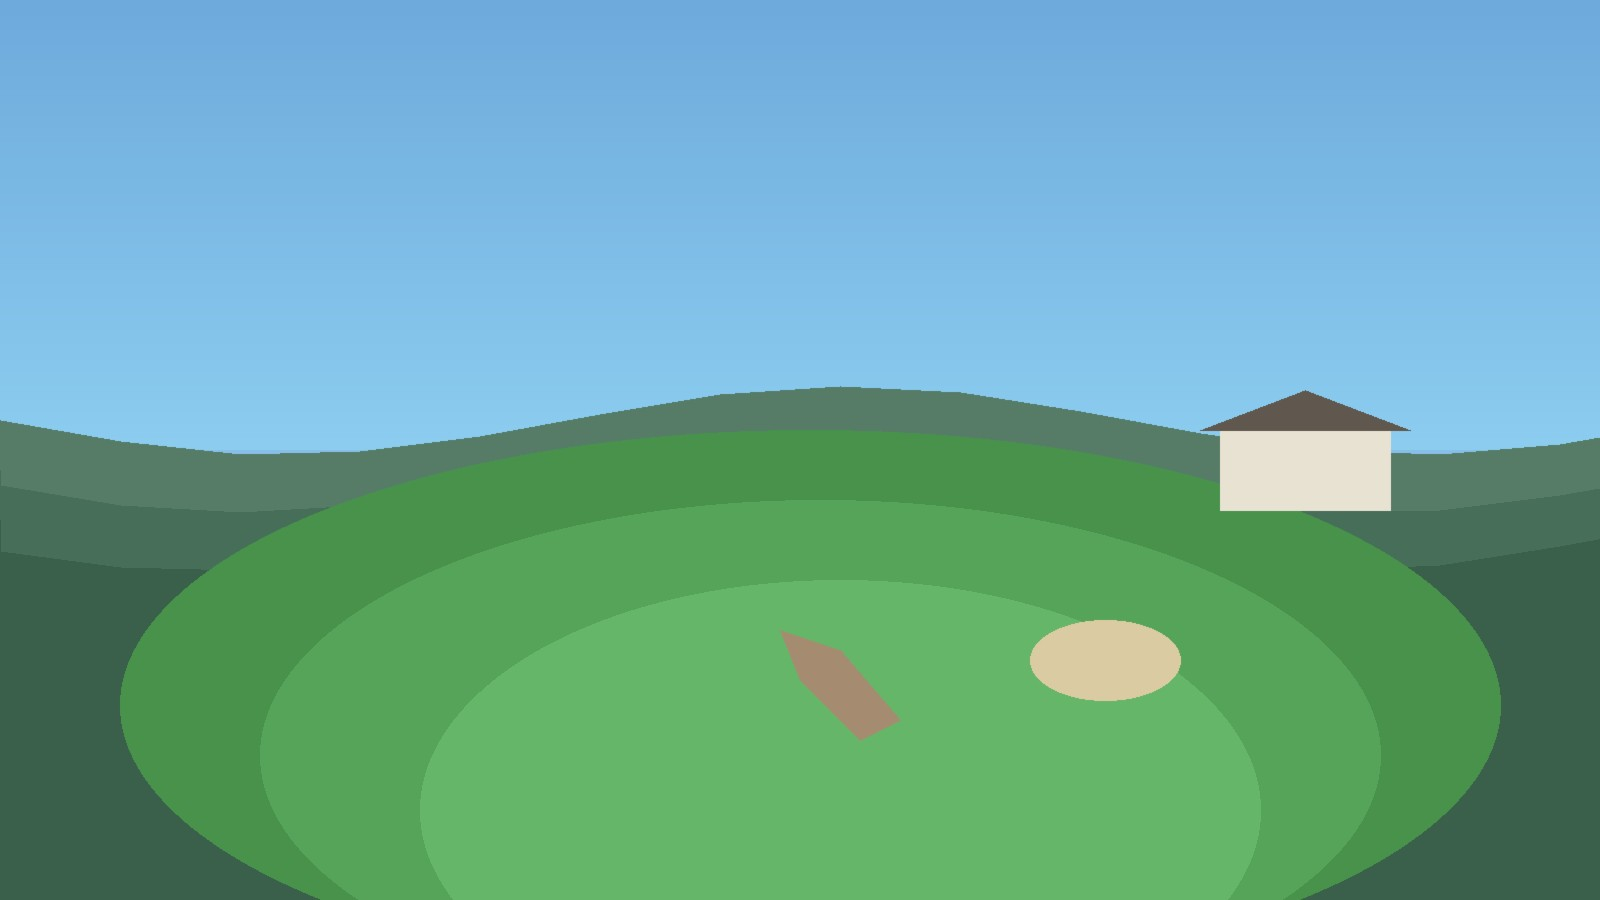
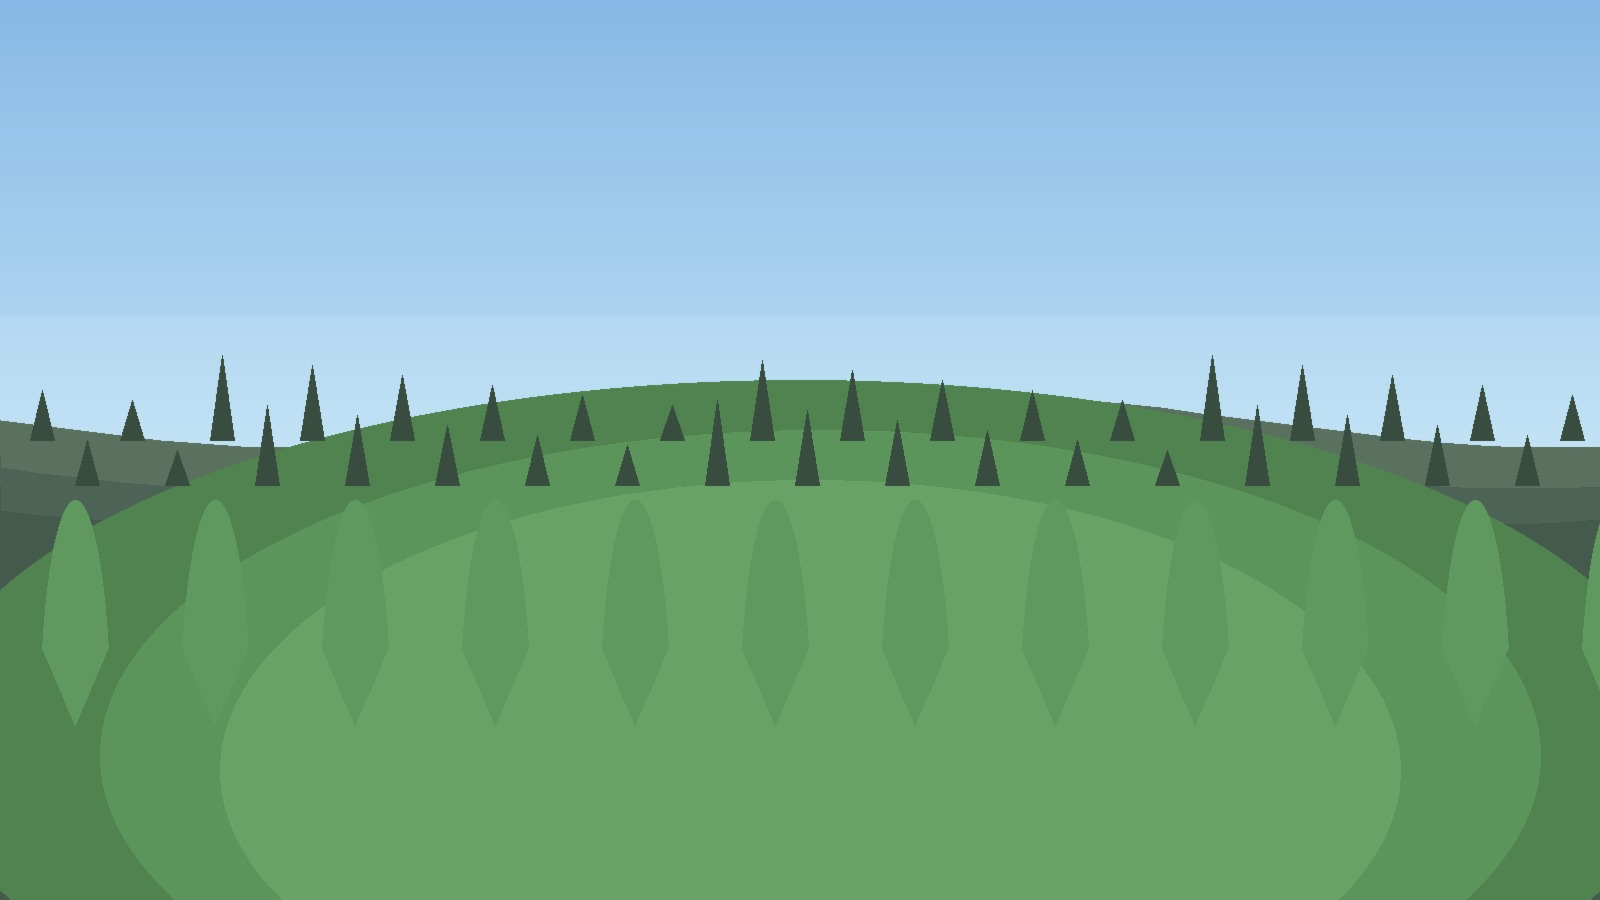
fix: replace Arima Royal course image and sync to GCS
Regenerate hero JPEG for arima_royal_golf_club; upload to ok-project-assets.
Also document Secret Manager-first Places API (New) key for fetch_images.

Made-with: Cursor

diff --git a/script/fetch_images.py b/script/fetch_images.py
@@ -5,10 +5,15 @@ import requests
 from dotenv import load_dotenv
 
 # ==========================================
-# ⚙ 설정
+# ⚙ 설정 — Google Places API (New) 전용
+#   - 엔드포인트: https://places.googleapis.com/v1/...
+#   - 키 우선순위:
+#       1) Secret Manager — GOOGLE_CLOUD_PROJECT(또는 GCP_PROJECT_ID) +
+#          GOOGLE_PLACES_API_KEY_SECRET_ID (시크릿 *이름*만, 예: OKCADDIE_GOOGLE_PLACES_API_KEY)
+#          ADC: gcloud auth application-default login (로컬) / CI SA에 secretAccessor
+#       2) 평문 폴백 — GOOGLE_PLACES_API_KEY (.env, 로컬 편의용)
 # ==========================================
 load_dotenv()
-API_KEY = os.environ.get("GOOGLE_PLACES_API_KEY")
 
 SCRIPT_DIR  = os.path.dirname(os.path.abspath(__file__))
 BASE_DIR    = os.path.dirname(SCRIPT_DIR)
@@ -19,39 +24,89 @@ CSV_PATH    = os.path.join(SCRIPT_DIR, 'csv', 'courses.csv')
 MAX_WIDTH = 1200  # 골프장은 넓은 사진이 잘 나오므로 더 크게
 PROTECTED = {'logo.png', 'logo.svg', 'favicon.ico', 'default.png', 'og_image.png'}
 
+
+def _gcp_project_id() -> str:
+    return (
+        os.environ.get("GOOGLE_CLOUD_PROJECT", "").strip()
+        or os.environ.get("GCP_PROJECT_ID", "").strip()
+    )
+
+
+def _access_secret_latest(project_id: str, secret_id: str) -> str:
+    from google.cloud import secretmanager
+
+    client = secretmanager.SecretManagerServiceClient()
+    name = f"projects/{project_id}/secrets/{secret_id}/versions/latest"
+    response = client.access_secret_version(request={"name": name})
+    return response.payload.data.decode("UTF-8").strip()
+
+
+def resolve_places_api_key() -> str:
+    """Places API (New) 키: Secret Manager 우선, 없으면 환경변수 평문."""
+    project_id = _gcp_project_id()
+    secret_id = os.environ.get("GOOGLE_PLACES_API_KEY_SECRET_ID", "").strip()
+
+    if project_id and secret_id:
+        try:
+            return _access_secret_latest(project_id, secret_id)
+        except Exception as e:
+            print(f"❌ Secret Manager 접근 실패 ({secret_id}): {e}")
+            print(
+                "   프로젝트/시크릿 이름, ADC(gcloud auth application-default login), "
+                "IAM secretAccessor 를 확인하세요."
+            )
+
+    direct = os.environ.get("GOOGLE_PLACES_API_KEY", "").strip()
+    if direct:
+        return direct
+
+    return ""
+
+
+def _places_error_message(res: requests.Response) -> str:
+    try:
+        err = res.json().get("error", {})
+        return err.get("message", res.text[:200])
+    except Exception:
+        return res.text[:200] if res.text else str(res.status_code)
+
+
 # ==========================================
-# 🔍 Places API — 골프장 검색
+# 🔍 Places API (New) — 골프장 검색
 # ==========================================
-def search_place(name, lat, lng):
-    """1차: Nearby Search / 2차: Text Search 폴백"""
+def search_place(name, lat, lng, api_key: str):
+    """1차: searchNearby / 2차: searchText 폴백"""
 
     headers_base = {
         "Content-Type": "application/json",
-        "X-Goog-Api-Key": API_KEY,
-        "X-Goog-FieldMask": "places.id,places.displayName,places.photos"
+        "X-Goog-Api-Key": api_key,
+        "X-Goog-FieldMask": "places.id,places.displayName,places.photos",
     }
     name_lower = name.lower().replace(" ", "")
 
-    # ── 1차 시도: Nearby Search (반경 3km, 골프장 타입) ──
+    # ── 1차: Nearby Search ──
     try:
         body = {
             "includedTypes": ["golf_course", "tourist_attraction", "establishment"],
             "locationRestriction": {
                 "circle": {
                     "center": {"latitude": float(lat), "longitude": float(lng)},
-                    "radius": 3000.0  # 3km로 확대 (골프장은 클럽하우스 위치가 다를 수 있음)
+                    "radius": 3000.0,
                 }
             },
             "maxResultCount": 10,
-            "languageCode": "ja"
+            "languageCode": "ja",
         }
         res = requests.post(
             "https://places.googleapis.com/v1/places:searchNearby",
-            headers=headers_base, json=body, timeout=10
+            headers=headers_base,
+            json=body,
+            timeout=10,
         )
+        if res.status_code != 200:
+            print(f"  ⚠ searchNearby HTTP {res.status_code}: {_places_error_message(res)}")
         places = res.json().get("places", [])
 
-        # 이름 매칭
         for place in places:
             display = place.get("displayName", {}).get("text", "").lower().replace(" ", "")
             if name_lower in display or display in name_lower:
@@ -61,27 +116,33 @@ def search_place(name, lat, lng):
     except Exception as e:
         print(f"  ⚠ Nearby 검색 오류: {e}")
 
-    # ── 2차 폴백: Text Search (이름으로 직접 검색) ──
+    # ── 2차: Text Search ──
     try:
         body = {
             "textQuery": f"{name} golf course Japan",
             "locationBias": {
                 "circle": {
                     "center": {"latitude": float(lat), "longitude": float(lng)},
-                    "radius": 5000.0
+                    "radius": 5000.0,
                 }
             },
             "maxResultCount": 5,
-            "languageCode": "ja"
+            "languageCode": "ja",
         }
         res = requests.post(
             "https://places.googleapis.com/v1/places:searchText",
-            headers={**headers_base, "X-Goog-FieldMask": "places.id,places.displayName,places.photos"},
-            json=body, timeout=10
+            headers={
+                **headers_base,
+                "X-Goog-FieldMask": "places.id,places.displayName,places.photos",
+            },
+            json=body,
+            timeout=10,
         )
+        if res.status_code != 200:
+            print(f"  ⚠ searchText HTTP {res.status_code}: {_places_error_message(res)}")
         places = res.json().get("places", [])
         if places:
-            print(f"  🔄 Text Search 폴백 성공")
+            print("  🔄 Text Search 폴백 성공")
             return places[0]
     except Exception as e:
         print(f"  ⚠ Text Search 오류: {e}")
@@ -90,14 +151,14 @@ def search_place(name, lat, lng):
 
 
 # ==========================================
-# 📸 사진 다운로드
+# 📸 Place Photo (New)
 # ==========================================
-def download_photo(photo_name, save_path):
+def download_photo(photo_name, save_path, api_key: str):
     url = f"https://places.googleapis.com/v1/{photo_name}/media"
     params = {
         "maxWidthPx": MAX_WIDTH,
-        "key": API_KEY,
-        "skipHttpRedirect": "false"
+        "key": api_key,
+        "skipHttpRedirect": "false",
     }
 
     try:
@@ -107,9 +168,8 @@ def download_photo(photo_name, save_path):
                 f.write(res.content)
             print(f"  📥 다운로드 완료 ({len(res.content)/1024:.0f}KB)")
             return True
-        else:
-            print(f"  ⚠ 응답 오류: HTTP {res.status_code}")
-            return False
+        print(f"  ⚠ 응답 오류: HTTP {res.status_code} {_places_error_message(res)}")
+        return False
     except Exception as e:
         print(f"  ⚠ 다운로드 오류: {e}")
         return False
@@ -119,30 +179,33 @@ def download_photo(photo_name, save_path):
 # 🚀 메인 실행 (MD 파일 기준)
 # ==========================================
 def fetch_all_images():
-    if not API_KEY:
-        print("❌ GOOGLE_PLACES_API_KEY가 없습니다.")
+    api_key = resolve_places_api_key()
+    if not api_key:
+        print("❌ Places API (New) 키가 없습니다.")
+        print(
+            "   Secret Manager: GOOGLE_CLOUD_PROJECT + GOOGLE_PLACES_API_KEY_SECRET_ID"
+        )
+        print("   또는 폴백: GOOGLE_PLACES_API_KEY")
         return
 
     os.makedirs(IMAGES_DIR, exist_ok=True)
 
-    # MD 파일 기준 safe_name 추출
     md_safe_names = set()
     if os.path.exists(CONTENT_DIR):
         for fname in os.listdir(CONTENT_DIR):
-            if fname.endswith('.md'):
-                base = fname.replace('.md', '')
-                for lang in ['_ko', '_en']:
+            if fname.endswith(".md"):
+                base = fname.replace(".md", "")
+                for lang in ["_ko", "_en"]:
                     if base.endswith(lang):
-                        md_safe_names.add(base[:-len(lang)])
+                        md_safe_names.add(base[: -len(lang)])
                         break
 
-    # CSV에서 MD가 있는 골프장만 필터링
-    with open(CSV_PATH, mode='r', encoding='utf-8-sig') as f:
+    with open(CSV_PATH, mode="r", encoding="utf-8-sig") as f:
         all_rows = list(csv.DictReader(f))
 
     rows = []
     for row in all_rows:
-        name = (row.get('Name') or '').strip()
+        name = (row.get("Name") or "").strip()
         if not name:
             continue
         safe = name.lower().replace(" ", "_").replace("'", "").replace(",", "").replace("&", "and")
@@ -156,9 +219,9 @@ def fetch_all_images():
     success = skipped = failed = 0
 
     for i, row in enumerate(rows, 1):
-        name = (row.get('Name') or '').strip()
-        lat  = (row.get('Lat') or '').strip()
-        lng  = (row.get('Lng') or '').strip()
+        name = (row.get("Name") or "").strip()
+        lat = (row.get("Lat") or "").strip()
+        lng = (row.get("Lng") or "").strip()
         if not name or not lat or not lng:
             continue
 
@@ -168,13 +231,13 @@ def fetch_all_images():
         print(f"[{i:03d}/{total}] {name}")
 
         if os.path.exists(save_path) and os.path.basename(save_path) not in PROTECTED:
-            print(f"  ⏭  이미 존재 → 스킵")
+            print("  ⏭  이미 존재 → 스킵")
             skipped += 1
             continue
 
-        place = search_place(name, lat, lng)
+        place = search_place(name, lat, lng, api_key)
         if not place:
-            print(f"  ❌ 장소를 찾을 수 없음")
+            print("  ❌ 장소를 찾을 수 없음")
             failed += 1
             time.sleep(0.3)
             continue
@@ -188,14 +251,16 @@ def fetch_all_images():
             continue
 
         print(f"  🔍 장소: {place_name}")
-        ok = download_photo(photos[0].get("name", ""), save_path)
-        if ok: success += 1
-        else:  failed  += 1
+        ok = download_photo(photos[0].get("name", ""), save_path, api_key)
+        if ok:
+            success += 1
+        else:
+            failed += 1
 
         time.sleep(0.3)
 
     print("\n" + "─" * 50)
-    print(f"🎉 이미지 수집 완료!")
+    print("🎉 이미지 수집 완료!")
     print(f"   ✅ 성공: {success}개  ⏭  스킵: {skipped}개  ❌ 실패: {failed}개")
     print("─" * 50)
 

diff --git a/README.md b/README.md
@@ -32,7 +32,7 @@ An interactive, multi-language web platform designed for global golfers to disco
 *   **Frontend**: Vanilla JavaScript (ESM), HTML5, CSS3, Google Maps API (Advanced Markers)
 *   **Data & Content**: Markdown with YAML Frontmatter compiled to JSON
 *   **AI Integration**: `google-genai` (Gemini 2.5 Flash API)
-*   **Image Processing**: Google Places API for automated image fetching
+*   **Image Processing**: Google **Places API (New)** for automated image fetching (`places.googleapis.com/v1`)
 *   **Infrastructure**: Docker, Google Cloud Run, Cloud Build
 
 ---
@@ -47,7 +47,7 @@ Reads `script/csv/courses.csv` and automatically generates bilingual (EN/KO) Mar
 *   Handles API rate limits safely.
 
 ### 2. `script/fetch_images.py`
-Uses **Google Places API** to find actual photos of the golf courses based on their coordinates (Lat/Lng).
+Uses **Places API (New)** (`places.googleapis.com/v1`) to fetch course photos from coordinates. API key is read from **Secret Manager first** (see env vars below), with an optional plain `GOOGLE_PLACES_API_KEY` fallback for local dev.
 *   Automatically downloads and saves images to `app/static/images/`.
 
 ### 3. `script/build_data.py`
@@ -67,22 +67,33 @@ pip install -r requirements.txt
 ```
 
 ### 2. Set Up Environment Variables
-Create a `.env` file in the root directory and add your API keys:
+Create a `.env` file in the root directory and add your API keys.
+
+GCP에서 **Places API (New)** 를 사용 설정한 뒤, API 키 문자열은 **Secret Manager**에 저장하고 이름만 `.env`에 둡니다 (권장).
+
 ```env
 GEMINI_API_KEY=your_google_gemini_api_key_here
-GOOGLE_PLACES_API_KEY=your_google_places_api_key_here
 GOOGLE_MAPS_JS_API_KEY=your_google_maps_javascript_api_key_here
 ASSET_VERSION=2026-04-26
+
+# Places API (New) — 이미지 수집: Secret Manager 우선
+GOOGLE_CLOUD_PROJECT=your-gcp-project-id
+GOOGLE_PLACES_API_KEY_SECRET_ID=OKCADDIE_GOOGLE_PLACES_API_KEY
+
+# (선택) 로컬만: 시크릿 없이 직접 키
+# GOOGLE_PLACES_API_KEY=...
 ```
 
-`GOOGLE_PLACES_API_KEY` is only for image collection scripts (Places API), while `GOOGLE_MAPS_JS_API_KEY` is only for rendering the web map in runtime (Maps JavaScript API via Cloud Build substitution `_GOOGLE_MAPS_JS_API_KEY`).
+로컬에서 SM을 쓰려면 `gcloud auth application-default login` 후 `pip install -r requirements.txt` ( `google-cloud-secret-manager` 포함).
+
+`GOOGLE_MAPS_JS_API_KEY` → 브라우저 지도 (Cloud Build에서 `OKCADDIE_GOOGLE_MAPS_JS_API_KEY` 시크릿 주입).
 
 ### 3. Generate & Build Data
 ```bash
 # 1. Generate Markdown files via AI (Reads courses.csv)
 python script/course_generator.py
 
-# 2. Fetch real course images via Google Places API
+# 2. Fetch real course images via Places API (New)
 python script/fetch_images.py
 
 # 3. Build JSON data and Sitemap
@@ -141,7 +152,7 @@ okcaddie/
 │   │   └── courses.csv          # Master list of Golf Courses & Metadata
 │   ├── build_data.py            # MD to JSON/XML compiler
 │   ├── course_generator.py      # Gemini AI Content Bot
-│   └── fetch_images.py          # Google Places Image Scraper
+│   └── fetch_images.py          # Places API (New) + Secret Manager
 ├── .env                         # API Keys (Git Ignored)
 ├── Dockerfile                   # Container Configuration
 ├── cloudbuild.yaml              # CI/CD for Google Cloud
